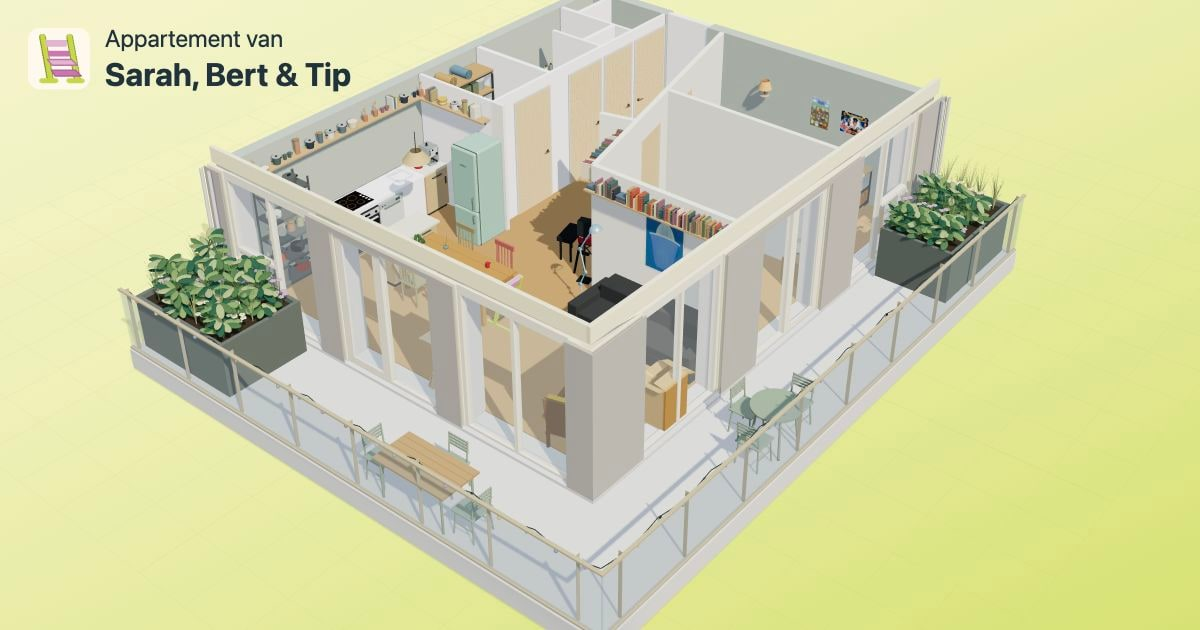
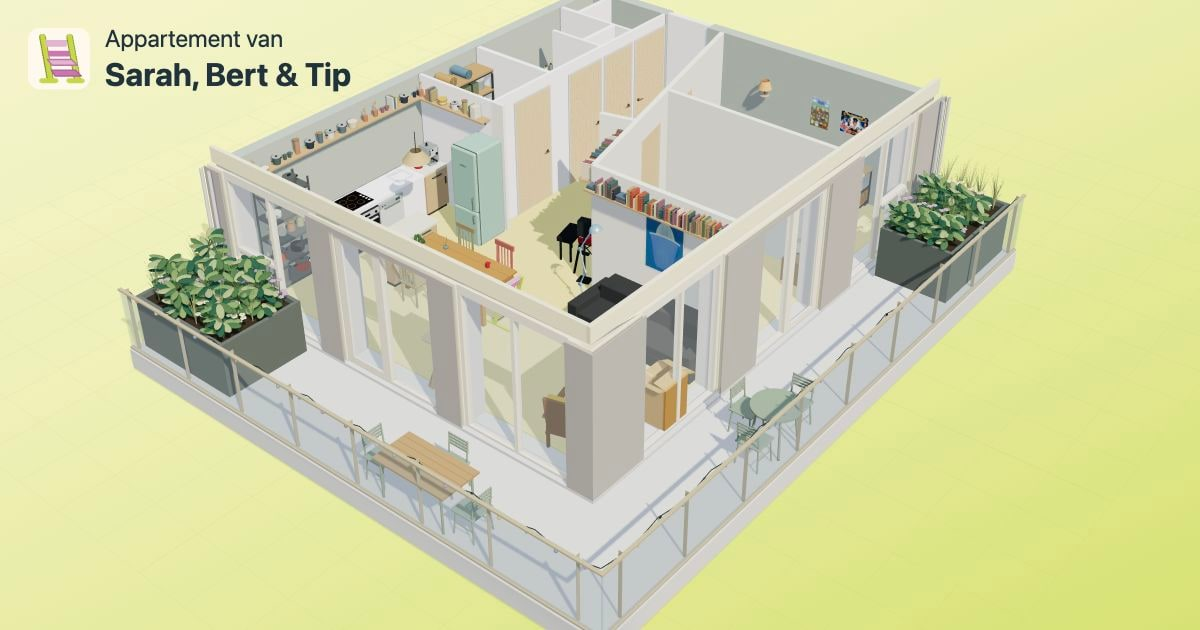
Use light yellow concrete as the default floor

diff --git a/src/routes/preview-render/+page.svelte b/src/routes/preview-render/+page.svelte
@@ -14,7 +14,7 @@
     apartment=await createApartment(host,()=>{});
     if(disposed){apartment.destroy();return;}
     apartment.view('preview');
-    apartment.update({floor:'oak',light:'day',furniture:true,windowBookshelves:false,doorOpen:0,hallway:'short-wall',doorsOpen:false,instrument:'nord',tipAge:'child'});
+    apartment.update({floor:'yellow-concrete',light:'day',furniture:true,windowBookshelves:false,doorOpen:0,hallway:'short-wall',doorsOpen:false,instrument:'nord',tipAge:'child'});
     await document.fonts.ready;
     // Let the renderer draw the updated furniture before declaring the image ready.
     await new Promise<void>(resolve=>requestAnimationFrame(()=>requestAnimationFrame(()=>resolve())));

diff --git a/src/routes/+page.svelte b/src/routes/+page.svelte
@@ -13,7 +13,7 @@
  });
  let tipAge:'child'|'teen'='child';
  let instrument:'upright'|'nord'='nord';
- let floor='oak',light='day',furniture=true,windowBookshelves=false,doorOpen=0,doorsOpen=false;
+ let floor='yellow-concrete',light='day',furniture=true,windowBookshelves=false,doorOpen=0,doorsOpen=false;
  let hallway:HallwayMode='short-wall';
  let ready=false,error='',hint='Het appartement laden…',mode='orbit';
  function update(){api?.update({floor,light,furniture,windowBookshelves,doorOpen,hallway,doorsOpen,instrument,tipAge});}
